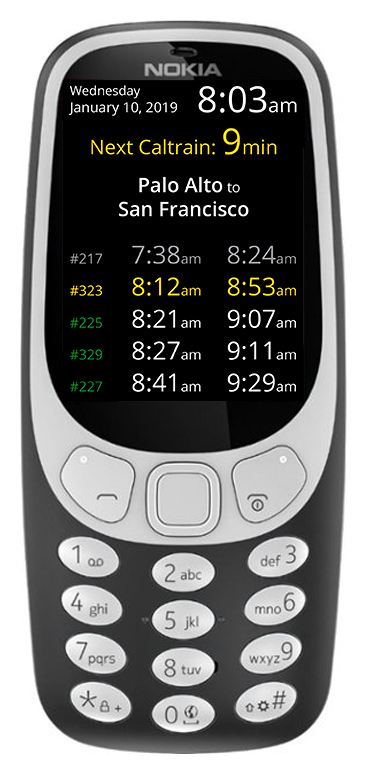
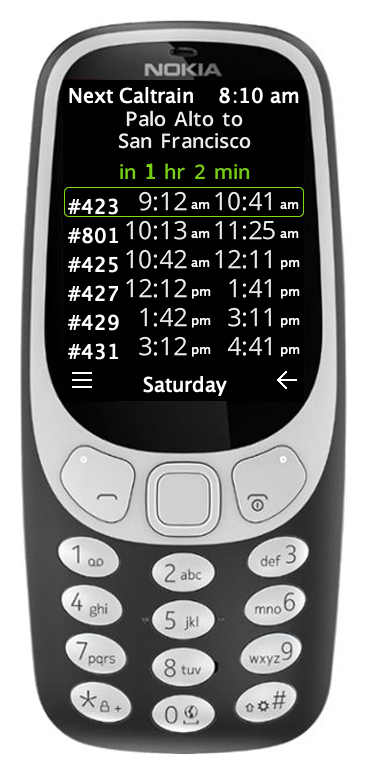
Latest mock and updated README file.

Changed region(s): [[0.1798, 0.093, 0.8392, 0.5271]]

diff --git a/README.md b/README.md
@@ -1,9 +1,9 @@
 # Caltrain-Schedule-MIDlet
 
-This project is a Caltrain Schedule for the new Nokia 3310.
+This project is a Caltrain Schedule for the new Nokia 3310 3G.
 
-Although this phone has no geo location capabilities, it knows what time it is, so the app will be able to show the next few trains at your morning and evening stations, with a "time until the next train" label above the schedule.
+Although this phone has no geo location capabilities, it knows what time it is, so the app will be able to show the next few trains at your morning and evening stations.
 
-Although the screen is small, we will have a modern UI similar to what you'd expect on a smart watch. The Nokia 3310 3G has only one typeface that's very small, so we added support for loading our own fonts. 
+Although the screen is small, we intend to have a modern UI similar to what you'd expect on a smart watch. The Nokia 3310 3G has only one typeface that's very small, so we added support for loading our own fonts. 
 
-![alt text](https://raw.githubusercontent.com/woodie/Caltrain-Schedule-MIDlet/master/docs/proto.png) ![alt text](https://raw.githubusercontent.com/woodie/Caltrain-Schedule-MIDlet/master/docs/mock.jpg)
+![alt text](https://raw.githubusercontent.com/woodie/Caltrain-Schedule-MIDlet/master/docs/mock.jpg)
